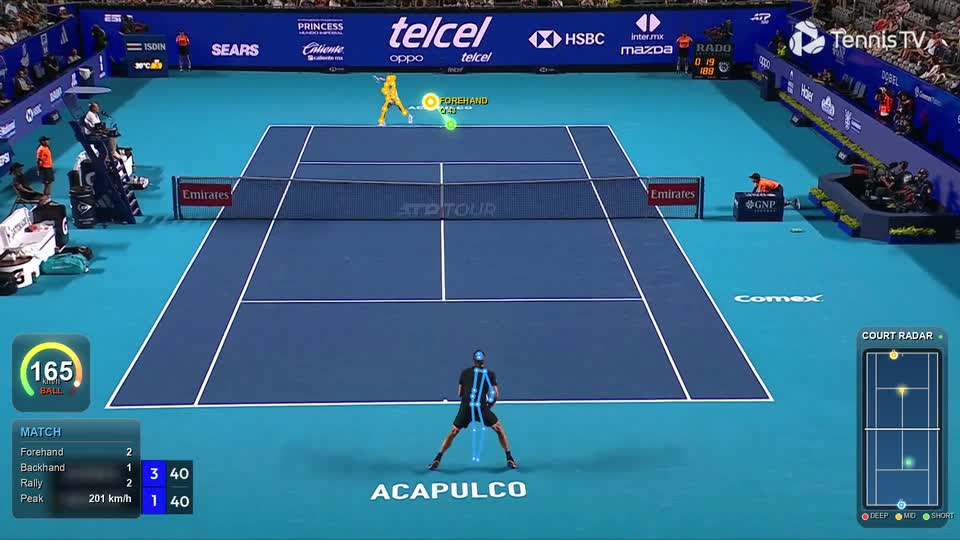
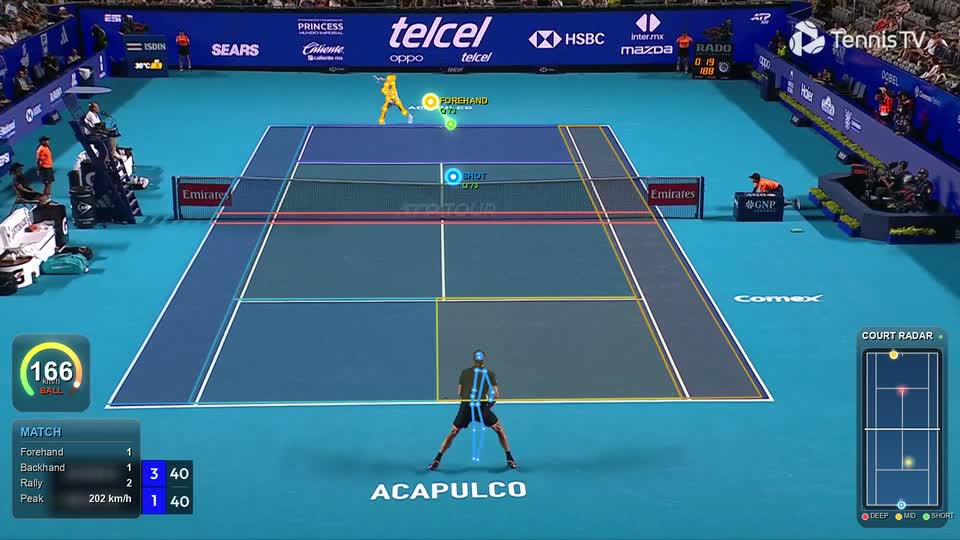
fix(player-track): 'lend spare to empty slot' now applies the max_step gate
The landing demo showed 2 ball kids on the left drawn as the players (P1/P2
skeletons). Root cause was a back door in the association: when a slot had no
candidate on its side (player occluded) but the OTHER side had 2, the 'lend
spare to empty slot' branch assigned the spare WITHOUT the max_step continuity
gate. A ball kid (cx=354, far side) got lent to the near slot (last at cx=1377)
— a 1023px jump — and locked as P2 at frame 24. Then the max_step gate, working
as designed, refused the real player's return (1377 > 77px from the hijacked
354), so the skeleton stayed frozen on the ball kid for the whole clip.

Fix: the lend now applies the same ||p - last[empty]|| <= max_step gate as the
primary association. A spare far from the empty slot's last position is a
different person; the slot stays empty and gap-fill holds the real player.

Validated: 0/650 frames with P1/P2 on the ball-kid left zone (was hijacked from
f24). tests/test_player_track.py still green. P1 coverage 85.7%→100%, P2 87.7%
→84.5% (gap-fills instead of hijacking — correct). Hero web regenerated.

diff --git a/vision/player_track.py b/vision/player_track.py
@@ -185,13 +185,21 @@ class TwoPlayerTracker:
 
         # handle the rare both-on-same-side frame: if one slot is empty but the
         # other side has 2 candidates, lend the extra to the empty slot using its
-        # last-known position as the anchor (keeps both skeletons alive).
+        # last-known position as the anchor (keeps both skeletons alive). The
+        # GATE STILL APPLIES: a spare far from the empty slot's last position is
+        # a different person (a ball kid / line judge mis-bucketed onto this side
+        # during a brief occlusion), not the missing player — lending it would
+        # permanently hijack the slot (the max_step gate would then refuse the
+        # real player's return). So we lend only if a spare sits within max_step;
+        # otherwise the slot stays empty and gap-fill holds the real player.
         for empty, other in ((1, 2), (2, 1)):
             if assigned[empty] is None and len(by_side[other]) >= 2 and self._last[empty] is not None:
                 taken = assigned[other]
-                spare = [p for p in by_side[other] if p is not taken]
+                lc = _box_centroid(self._last[empty]["box"])
+                spare = [p for p in by_side[other]
+                         if p is not taken
+                         and np.linalg.norm(_box_centroid(p["box"]) - lc) <= self.max_step]
                 if spare:
-                    lc = _box_centroid(self._last[empty]["box"])
                     assigned[empty] = min(
                         spare, key=lambda p: np.linalg.norm(_box_centroid(p["box"]) - lc))
 